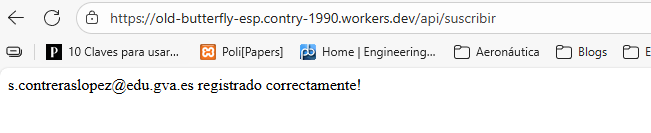
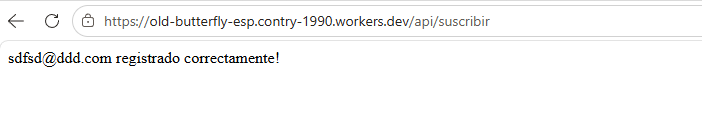
UP02 actividades integradas

diff --git a/soluciones/UP02/actividad2-formulario.html b/soluciones/UP02/actividad2-formulario.html
@@ -1,0 +1,77 @@
+<!DOCTYPE html>
+<html lang="es">
+<head>
+  <meta charset="UTF-8">
+  <meta name="viewport" content="width=device-width, initial-scale=1.0">
+  <title>Ficha técnica: Wolfenstein: The New Order</title>
+</head>
+<body>
+  <h1>Wolfenstein</h1>
+  <h2>First-person shooter</h2>
+
+  <img src="https://upload.wikimedia.org/wikipedia/commons/7/78/Wolfenstein_The_New_Order_%E2%80%93_Game_logo.svg" alt="Logotipo de Wolfenstein: The New Order" width="400">
+
+  <h2>Descripción</h2>
+  <p>En un mundo alternativo dominado por un régimen totalitario conocido como el New World Order, su líder concentra poder militar y tecnológico para mantener el control absoluto. B.J. Blazkowicz despierta tras años en coma y se une a la resistencia para derribar al régimen.</p>
+  <p><a href="https://es.wikipedia.org/wiki/Wolfenstein:_The_New_Order">Leer más en Wikipedia</a></p>
+
+  <h2>Personajes Principales</h2>
+  <table>
+    <thead>
+      <tr>
+        <th>Personaje</th>
+        <th>Clase/Rol</th>
+        <th>Habilidad Principal</th>
+      </tr>
+    </thead>
+    <tbody>
+      <tr>
+        <td>El Líder del New World Order</td>
+        <td>Autoridad Suprema</td>
+        <td>Control Tecnológico y Propaganda</td>
+      </tr>
+      <tr>
+        <td>B.J. Blazkowicz</td>
+        <td>Protagonista / Resistencia</td>
+        <td>Combate y Determinación</td>
+      </tr>
+      <tr>
+        <td>Anya Oliwa</td>
+        <td>Aliada de la Resistencia</td>
+        <td>Estrategia y Comunicaciones</td>
+      </tr>
+    </tbody>
+  </table>
+
+  <h2>Características</h2>
+  <ul>
+    <li>Consolidar un nuevo orden mundial mediante la superioridad tecnológica y el control social.</li>
+    <li>Ejércitos mecanizados, laboratorios de investigación avanzada y red de vigilancia masiva.</li>
+    <li>Dependencia de infraestructuras tecnológicas que la resistencia puede explotar.</li>
+    <li>Narrativa profunda en un mundo alternativo distópico.</li>
+  </ul>
+
+  <!-- ACTIVIDAD 2 -->
+  <!-- 1. Separador visual justo antes del footer -->
+  <hr>
+
+  <!-- 2. Nueva sección con el formulario -->
+  <section>
+    <h2>¡Recibe Novedades!</h2>
+    <p>Introduce tu correo para no perderte actualizaciones y análisis sobre el New World Order y la resistencia.</p>
+
+    <!-- Reto opcional: action, method y name permiten enviar los datos al servidor -->
+    <form action="https://old-butterfly-esp.contry-1990.workers.dev/api/suscribir" method="post">
+      <!-- 4. El for de la label coincide con el id del input -->
+      <label for="emailNoticias">Tu email:</label>
+      <input type="email" id="emailNoticias" name="user_email" placeholder="nombre@ejemplo.com">
+      <!-- 5. Botón de envío -->
+      <button type="submit">Suscribirme</button>
+    </form>
+  </section>
+
+  <footer>
+    <p><a href="https://wolfenstein.bethesda.net/">Página Web Oficial</a></p>
+  </footer>
+</body>
+</html>

diff --git a/soluciones/UP02/actividad1-ficha-tecnica.html b/soluciones/UP02/actividad1-ficha-tecnica.html
@@ -1,0 +1,58 @@
+<!DOCTYPE html>
+<html lang="es">
+<head>
+  <meta charset="UTF-8">
+  <meta name="viewport" content="width=device-width, initial-scale=1.0">
+  <title>Ficha técnica: Wolfenstein: The New Order</title>
+</head>
+<body>
+  <h1>Wolfenstein</h1>
+  <h2>First-person shooter</h2>
+
+  <img src="https://upload.wikimedia.org/wikipedia/commons/7/78/Wolfenstein_The_New_Order_%E2%80%93_Game_logo.svg" alt="Logotipo de Wolfenstein: The New Order" width="400">
+
+  <h2>Descripción</h2>
+  <p>En un mundo alternativo dominado por un régimen totalitario conocido como el New World Order, su líder concentra poder militar y tecnológico para mantener el control absoluto. B.J. Blazkowicz despierta tras años en coma y se une a la resistencia para derribar al régimen.</p>
+  <p><a href="https://es.wikipedia.org/wiki/Wolfenstein:_The_New_Order">Leer más en Wikipedia</a></p>
+
+  <h2>Personajes Principales</h2>
+  <table>
+    <thead>
+      <tr>
+        <th>Personaje</th>
+        <th>Clase/Rol</th>
+        <th>Habilidad Principal</th>
+      </tr>
+    </thead>
+    <tbody>
+      <tr>
+        <td>El Líder del New World Order</td>
+        <td>Autoridad Suprema</td>
+        <td>Control Tecnológico y Propaganda</td>
+      </tr>
+      <tr>
+        <td>B.J. Blazkowicz</td>
+        <td>Protagonista / Resistencia</td>
+        <td>Combate y Determinación</td>
+      </tr>
+      <tr>
+        <td>Anya Oliwa</td>
+        <td>Aliada de la Resistencia</td>
+        <td>Estrategia y Comunicaciones</td>
+      </tr>
+    </tbody>
+  </table>
+
+  <h2>Características</h2>
+  <ul>
+    <li>Consolidar un nuevo orden mundial mediante la superioridad tecnológica y el control social.</li>
+    <li>Ejércitos mecanizados, laboratorios de investigación avanzada y red de vigilancia masiva.</li>
+    <li>Dependencia de infraestructuras tecnológicas que la resistencia puede explotar.</li>
+    <li>Narrativa profunda en un mundo alternativo distópico.</li>
+  </ul>
+
+  <footer>
+    <p><a href="https://wolfenstein.bethesda.net/">Página Web Oficial</a></p>
+  </footer>
+</body>
+</html>

diff --git a/UP02.md b/UP02.md
@@ -25,3 +25,99 @@ A continuación, tenéis los enlaces a los contenidos que **debéis leer y pract
 - [8. Contenido incrustado HTML5](https://www.eniun.com/contenido-incrustado-html5/)
 
 *Los puntos del 1 al 4 ya los vimos en la [UP01](UP01.md).*
+
+## Actividades formativas de la unidad
+
+> [!IMPORTANT]
+> Estas actividades **NO son evaluables** y **no hay que entregarlas**. Son ejercicios para practicar lo que habéis visto en Eniun antes de hacer las actividades de Aules. Al final de cada una tenéis una **solución de ejemplo**: intentad hacerla primero por vuestra cuenta y usad la solución solo para comparar.
+
+### 1. Ejercicios de maquetación web con HTML
+
+Se proponen dos actividades para realizar de forma secuencial. La primera se centra en la maquetación de contenido estático y visual, y la segunda añade un componente interactivo a la página creada mediante formularios.
+
+#### Actividad 1: Ficha técnica visual
+
+**Objetivo**
+
+Practicar la maquetación de contenido: estructurar información con encabezados y párrafos, incrustar imágenes, crear enlaces a recursos externos y organizar datos en tablas y listas.
+
+**Planteamiento**
+
+Elige un videojuego, película o serie que te guste y crea una ficha técnica visual. Además de estructurar el texto, añadirás una imagen de portada y enlaces a sitios de interés para que la página sea más completa.
+
+**Tareas**
+
+1. **Título y género**: añade un `<h1>` con el nombre y un `<h2>` con su género.
+2. **Imagen de portada**: justo debajo del `<h2>`, inserta una imagen representativa.
+    - Utiliza la etiqueta `<img>` con su atributo `src`.
+    - No olvides añadir una descripción en el atributo `alt` por accesibilidad.
+3. **Descripción y enlace externo**:
+    - Crea un `<p>` resumiendo la trama.
+    - Debajo, añade otro párrafo con un enlace `<a>` a su página de Wikipedia. El texto del enlace debe ser claro, por ejemplo: "Leer más en Wikipedia".
+4. **Personajes o elementos principales**:
+    - Añade un `<h2>` con el texto "Personajes principales" (o "Actores", "Canciones", etc.).
+    - Crea una `<table>` para mostrarlos, con cabecera (`<thead>`) y cuerpo (`<tbody>`). Define al menos tres columnas relevantes (p. ej.: Personaje, Rol, Habilidad).
+5. **Características clave**:
+    - Crea una sección con un `<h2>` que diga "Características".
+    - Utiliza una lista no ordenada `<ul>` para enumerar 3 o 4 puntos fuertes.
+6. **Pie de página**: termina con un `<footer>` que contenga un enlace `<a>` a la web oficial.
+
+> [!TIP]
+> - En los atributos `href` y `src` necesitas la **URL completa** (incluyendo `https://...`).
+> - Genera la estructura básica del documento con la abreviación Emmet `!` (o `html:5`) y pon un título adecuado en `<title>`.
+> - Usa Emmet para la tabla. Escribe esto y pulsa <kbd>Tab</kbd>:
+>
+>   ```text
+>   table>thead>tr>th*3^^tbody>tr*2>td*3
+>   ```
+
+**Solución de ejemplo**: [actividad1-ficha-tecnica.html](soluciones/UP02/actividad1-ficha-tecnica.html)
+
+#### Actividad 2: Formulario de suscripción
+
+**Objetivo**
+
+Aprender a integrar formularios sencillos aplicando buenas prácticas de usabilidad y accesibilidad, vinculando las etiquetas `<label>` con sus campos `<input>`.
+
+**Planteamiento**
+
+Partiendo de la ficha técnica de la actividad anterior, añadirás una sección interactiva para que los visitantes puedan suscribirse a un boletín de noticias.
+
+**Tareas**
+
+1. **Separador visual**: justo antes del `<footer>`, añade una línea horizontal `<hr>` para separar la ficha del formulario.
+2. **Nueva sección**: crea una `<section>` para el formulario. Dentro, añade un `<h2>` con el texto "¡Recibe novedades!".
+3. **Estructura del formulario**: dentro de la sección, crea la etiqueta `<form>`.
+4. **Campo de email** (la parte clave):
+    - Añade una `<label>` con el texto "Tu email:" y el atributo `for="emailNoticias"`.
+    - Añade un `<input type="email">` con `id="emailNoticias"` para vincularlo con la etiqueta.
+    - Opcional: añade un atributo `placeholder` con un texto de ejemplo.
+5. **Botón de envío**: termina el formulario con un `<button type="submit">Suscribirme</button>`.
+
+> [!TIP]
+> La vinculación `for`/`id` es fundamental. Cuando termines, haz clic sobre el texto "Tu email:" en el navegador: si el cursor se activa en la caja de texto, ¡lo has hecho bien!
+
+**Solución de ejemplo**: [actividad2-formulario.html](soluciones/UP02/actividad2-formulario.html)
+
+![Resultado de la solución de ejemplo de la actividad 2: ficha de Wolfenstein con formulario de suscripción](img/UP02/wolfestein_ejemplo.png)
+
+**Reto opcional: envío real del formulario**
+
+Para que el formulario envíe los datos a un servidor real, hay que hacer tres cambios:
+
+1. El atributo `action` del `<form>` debe apuntar a una URL que procese los datos. He preparado un servicio gratuito en Cloudflare Workers para que podáis probarlo: `https://old-butterfly-esp.contry-1990.workers.dev/api/suscribir`.
+2. Añade el atributo `method="post"` al `<form>` para que los datos se envíen correctamente.
+3. Para que el servidor reconozca el campo, el `<input>` debe tener el atributo `name="user_email"`.
+
+```html
+<form action="https://old-butterfly-esp.contry-1990.workers.dev/api/suscribir" method="post">
+  <label for="emailNoticias">Tu email:</label>
+  <input type="email" id="emailNoticias" name="user_email" placeholder="nombre@ejemplo.com">
+  <button type="submit">Suscribirme</button>
+</form>
+```
+
+Abre el archivo HTML en el navegador, rellena el formulario y envíalo: si todo va bien, verás un mensaje de éxito. No se almacena ningún email; es solo un ejemplo para que veáis cómo funciona.
+
+![Respuesta del servidor tras enviar el formulario: "registrado correctamente"](img/UP02/post_formulario.png)
+
